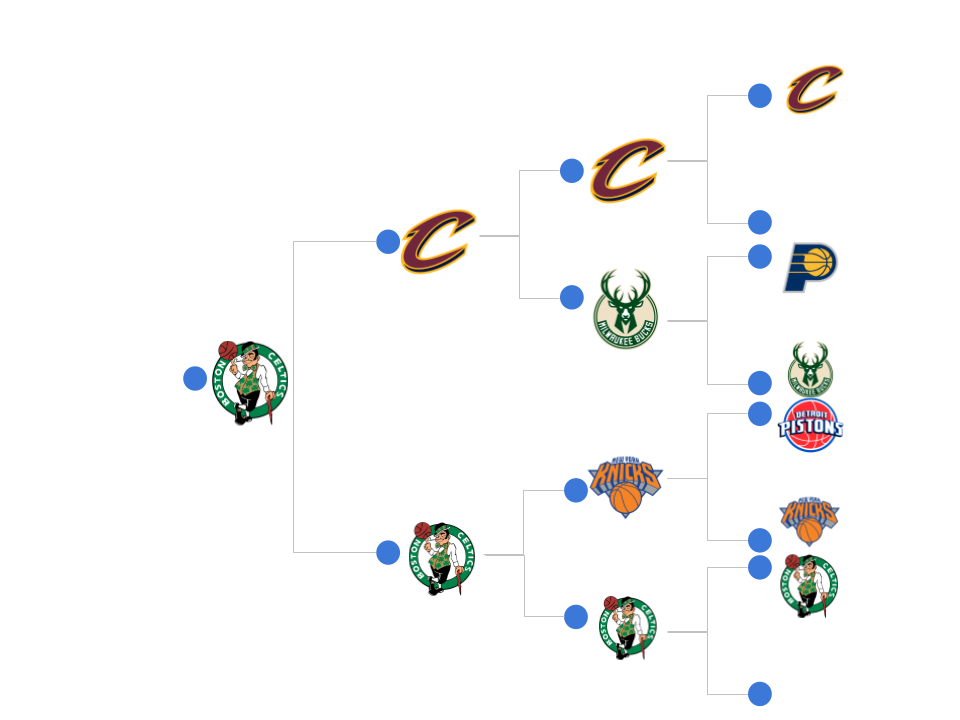
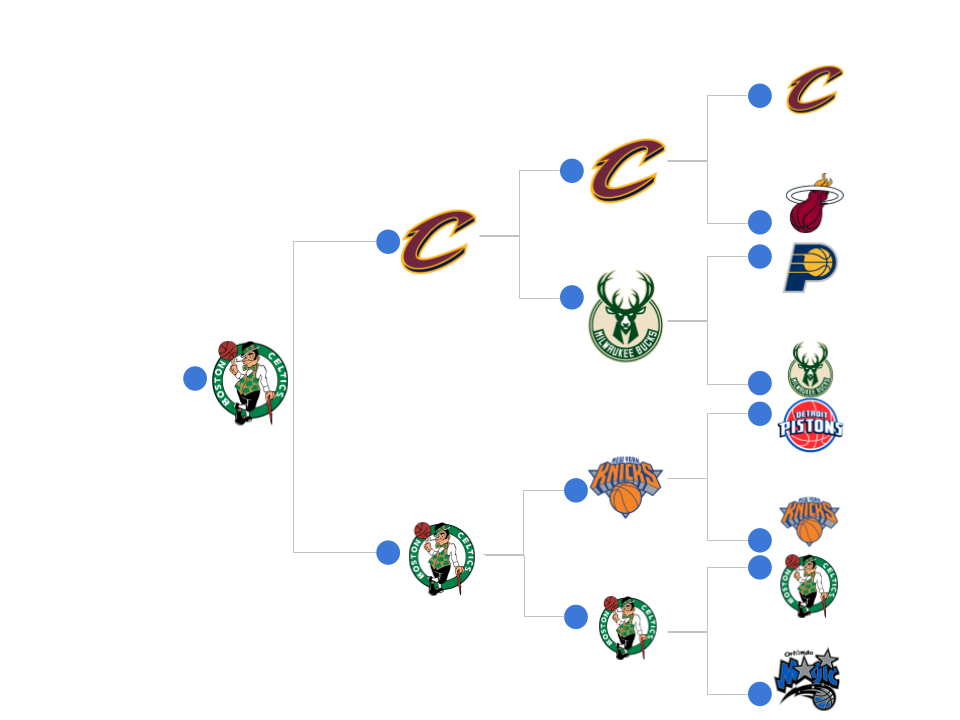
used dhruvs model + updated bracket

Changed region(s): [[0.5938, 0.3667, 0.6875, 0.5194], [0.8125, 0.8861, 0.875, 1.0], [0.8125, 0.2444, 0.875, 0.3361]]

diff --git a/frontend/src/prediction/Prediction.tsx b/frontend/src/prediction/Prediction.tsx
@@ -5,7 +5,7 @@ import west_bracket from "./west_bracket.png";
 import east_bracket from "./east_bracket.png";
 import thunder from "./Thunder.png";
 import * as Papa from "papaparse";
-import rawOddsCSV from "./odds/test_season_1.csv?raw";
+import rawOddsCSV from "./odds/final_prob.csv?raw";
 
 
 const Predictions: React.FC = () => {
